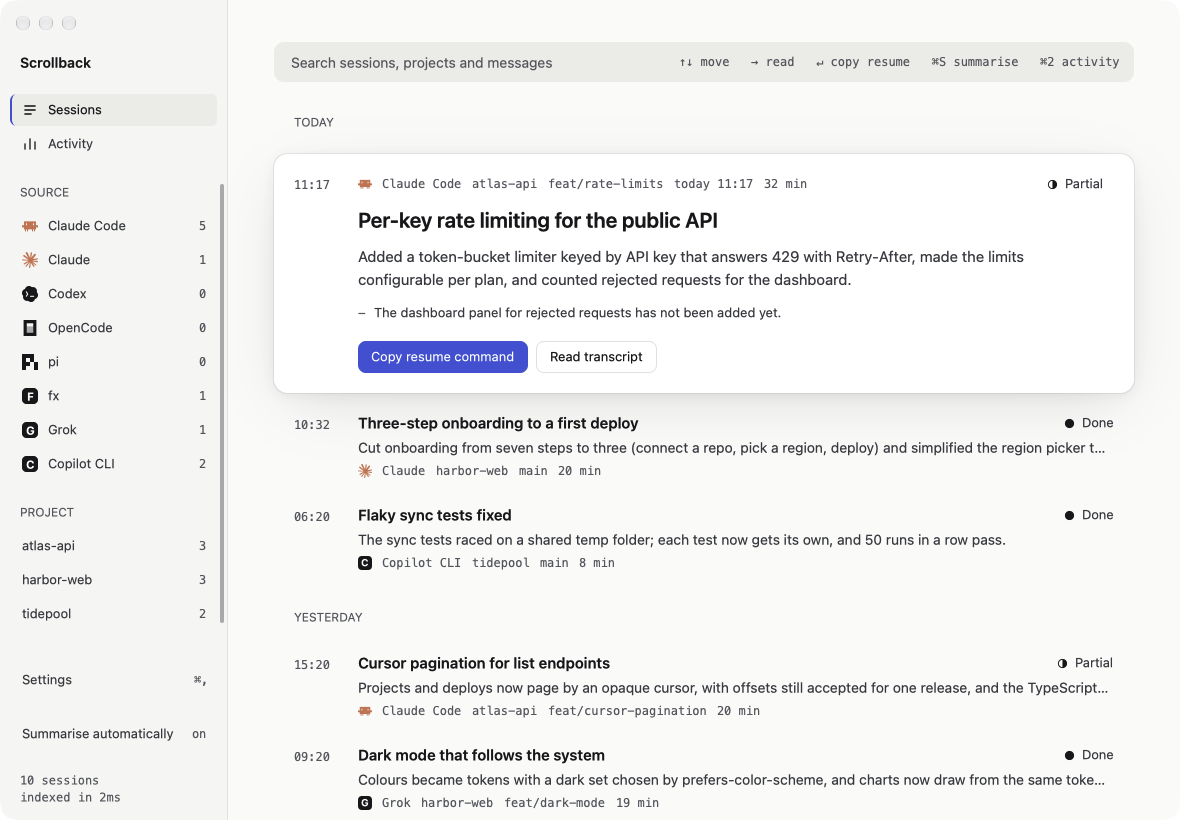
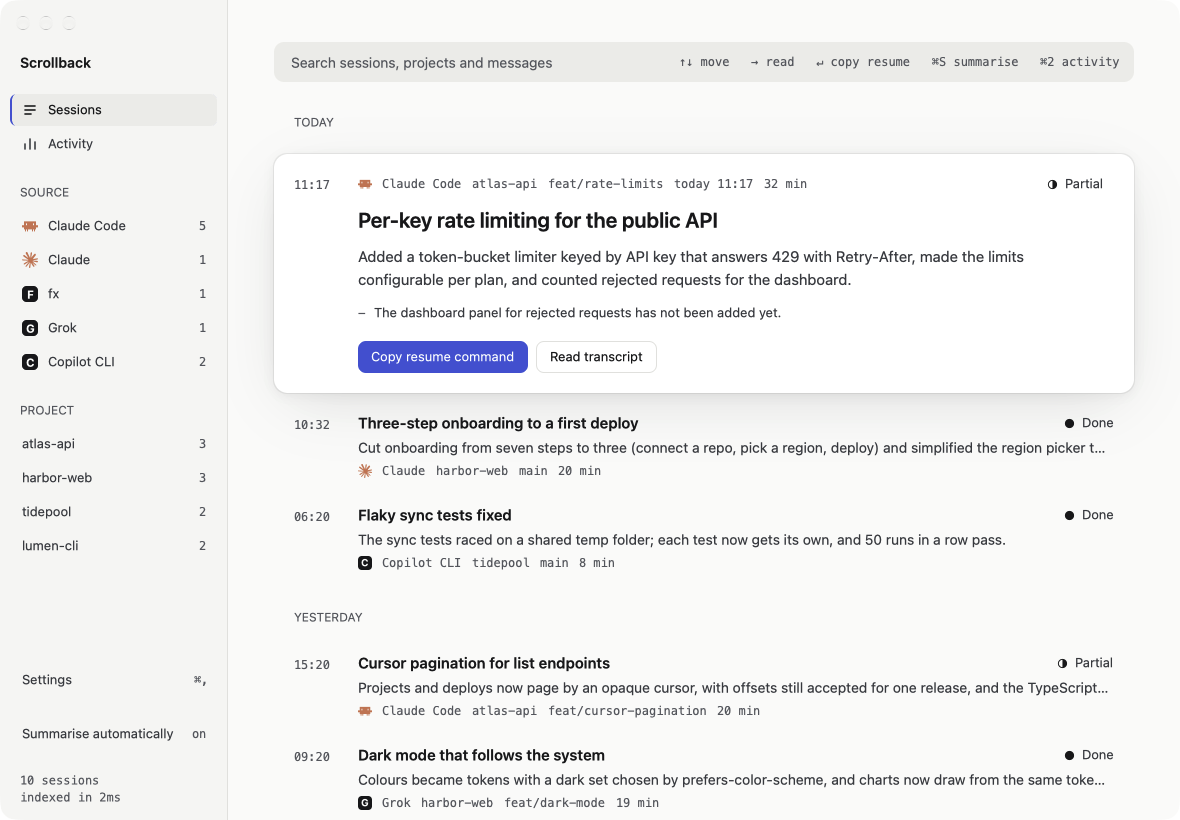
List only the sources that have sessions
Claude Code, Codex, OpenCode and pi were always listed in the sidebar,
with a count of 0 for anyone who does not use them. Now every source is
listed once it has sessions, as the others already were, and a sidebar
with no sessions at all lists nothing. The README's screenshots are
retaken to match.

diff --git a/crates/app/src/home.rs b/crates/app/src/home.rs
@@ -816,16 +816,17 @@ impl Home {
                     .child("Activity"),
             );
 
-        // One row for each program sessions were run from. The first
-        // command-line harnesses are always listed; the rest are listed once
-        // they have sessions, so the list stays short as more are supported.
+        // One row for each program sessions were run from, listed once it
+        // has sessions, so the list holds only the tools actually in use.
         let mut harnesses = div().flex().flex_col().gap(px(2.)).child(div().px(px(10.)).child(label("Source", t)));
+        let mut listed = 0;
         for origin in Origin::ALL {
             let count = self.sessions.iter().filter(|s| s.origin == origin).count();
             let active = self.origin == Some(origin);
-            if !origin.always_listed() && count == 0 && !active {
+            if count == 0 && !active {
                 continue;
             }
+            listed += 1;
             harnesses = harnesses.child(
                 nav_row(t, active)
                     .id(origin.slug())
@@ -911,8 +912,8 @@ impl Home {
                             .flex()
                             .flex_col()
                             .gap(px(22.))
-                            .child(harnesses)
-                            .child(projects),
+                            // With no sessions yet, there is nothing to list.
+                            .when(listed > 0, |el| el.child(harnesses).child(projects)),
                     )
                     // In the sidebar's own margin, clear of the counts.
                     .children(ui::scrollbar(&self.sidebar_scroll, t).map(|bar| bar.right(px(-7.)))),

diff --git a/crates/core/src/model.rs b/crates/core/src/model.rs
@@ -215,13 +215,6 @@ impl Origin {
         Origin::ALL.into_iter().find(|o| o.slug() == slug)
     }
 
-    /// Whether the sidebar lists this source even with no sessions: the
-    /// first command-line tools Scrollback read. Others appear once they
-    /// have sessions.
-    pub fn always_listed(self) -> bool {
-        matches!(self, Origin::ClaudeCode | Origin::Codex | Origin::OpenCode | Origin::Pi)
-    }
-
     /// Whether this is an app that runs sessions, as opposed to a harness's
     /// own command-line tool.
     pub fn is_app(self) -> bool {
